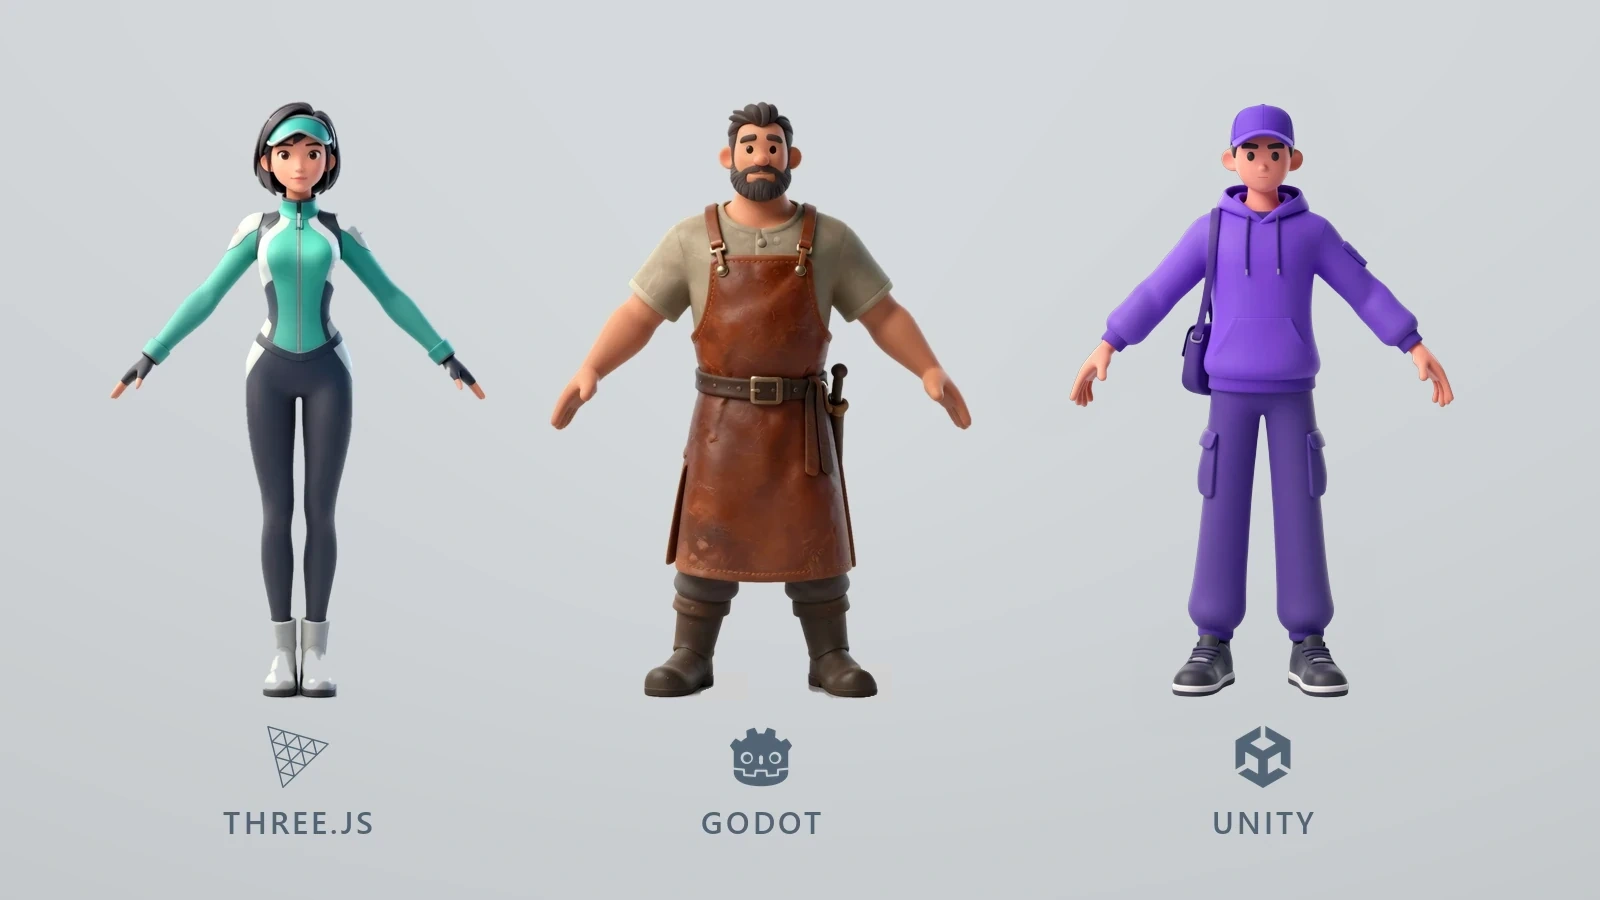
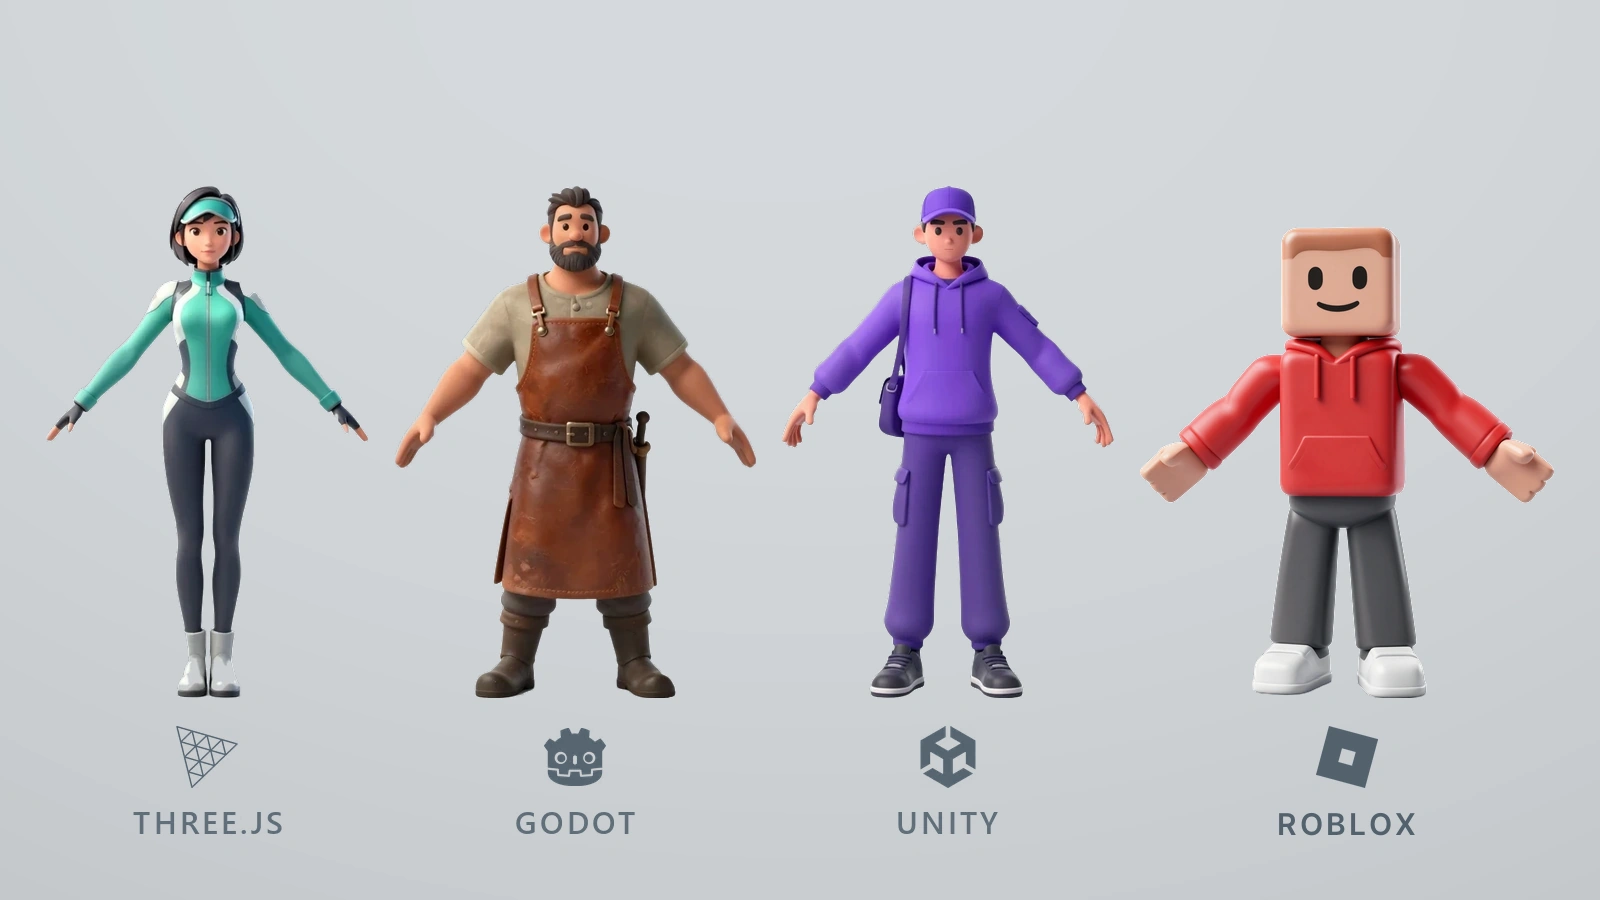
3GS Master: четвёртый движок - Roblox Studio, четвёртый персонаж на превью
В среде появился стек Roblox (Luau, Studio MCP, свой корпус документации),
поэтому на карточке теперь четыре персонажа под четыре логотипа и четвёртый
тег. Персонаж в стиле Roblox сделан пропорционально меньше остальных: при
общей высоте 512 px его корпус и голова в треть фигуры читались заметно
крупнее соседей, теперь он стоит на 471 px.

Описание: «три движка» -> «четыре движка ... Three.js, Godot 4, Unity 6 и
Roblox Studio».

diff --git a/assets/data/projects.js b/assets/data/projects.js
@@ -186,13 +186,14 @@ window.PROJECTS = [
     // но сделана она ровно из того, что ищут в AI-инженере (MCP, RAG, harness).
     kind: 'Инструмент',
     themes: ['AI-продукт', 'Инструмент'],
-    desc: 'Локальная среда, в которой AI-агент делает игры для трёх движков - Three.js, Godot 4 и Unity 6. RAG по документации каждого движка, MCP-серверы знаний и ассетов, генерация арта и 3D на одной карте 8 ГБ.\n\n*По умолчанию агент работает на локальной модели; облачную можно подключить вместо неё или вести сессию сразу на двух.',
-    tags: ['MCP', 'RAG', 'AI Agents', 'Three.js', 'Godot', 'Unity', 'Python'],
+    desc: 'Локальная среда, в которой AI-агент делает игры для четырёх движков - Three.js, Godot 4, Unity 6 и Roblox Studio. RAG по документации каждого движка, MCP-серверы знаний и ассетов, генерация арта и 3D на одной карте 8 ГБ.\n\n*По умолчанию агент работает на локальной модели; облачную можно подключить вместо неё или вести сессию сразу на двух.',
+    tags: ['MCP', 'RAG', 'AI Agents', 'Three.js', 'Godot', 'Unity', 'Roblox', 'Luau', 'Python'],
     year: '2026',
     status: 'live',
-    // На карточке - то, ради чего инструмент и существует: три персонажа под
-    // три движка, сгенерированные локально одной связкой. Снимок интерфейса
-    // здесь хуже: среда состоит из консольных лаунчеров и MCP, смотреть нечего.
+    // На карточке - то, ради чего инструмент и существует: четыре персонажа
+    // под четыре движка, сгенерированные локально одной связкой. Снимок
+    // интерфейса здесь хуже: среда состоит из консольных лаунчеров и MCP,
+    // смотреть нечего.
     shot: 'assets/img/projects/3gs-lineup.webp',
     links: { repo: 'https://github.com/CityStas/3gs_master' }
   },
